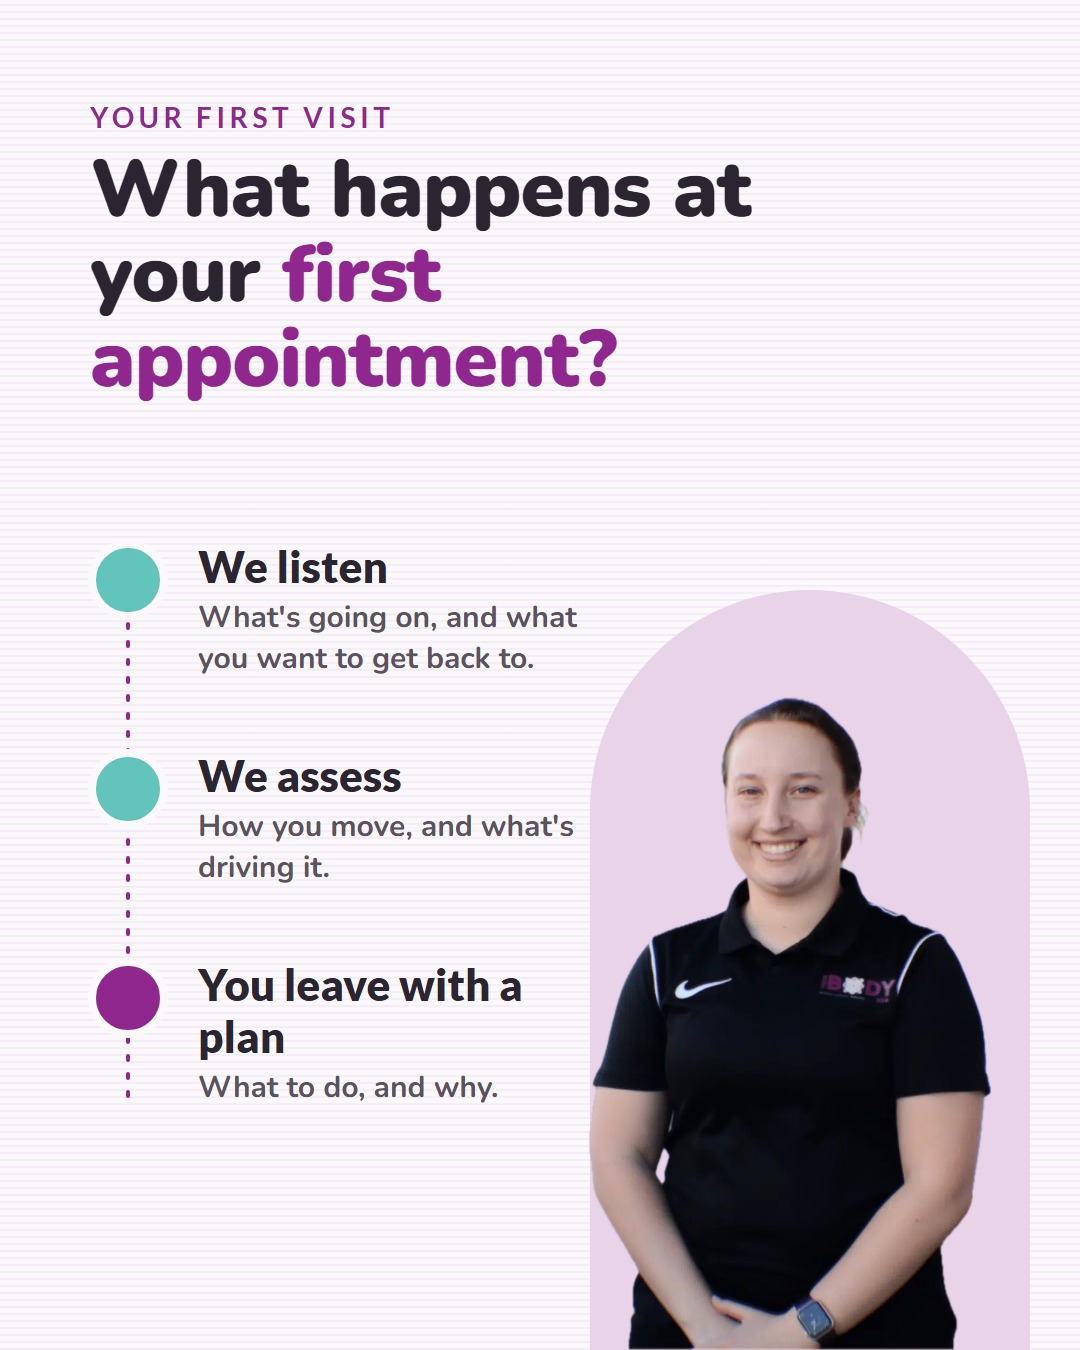
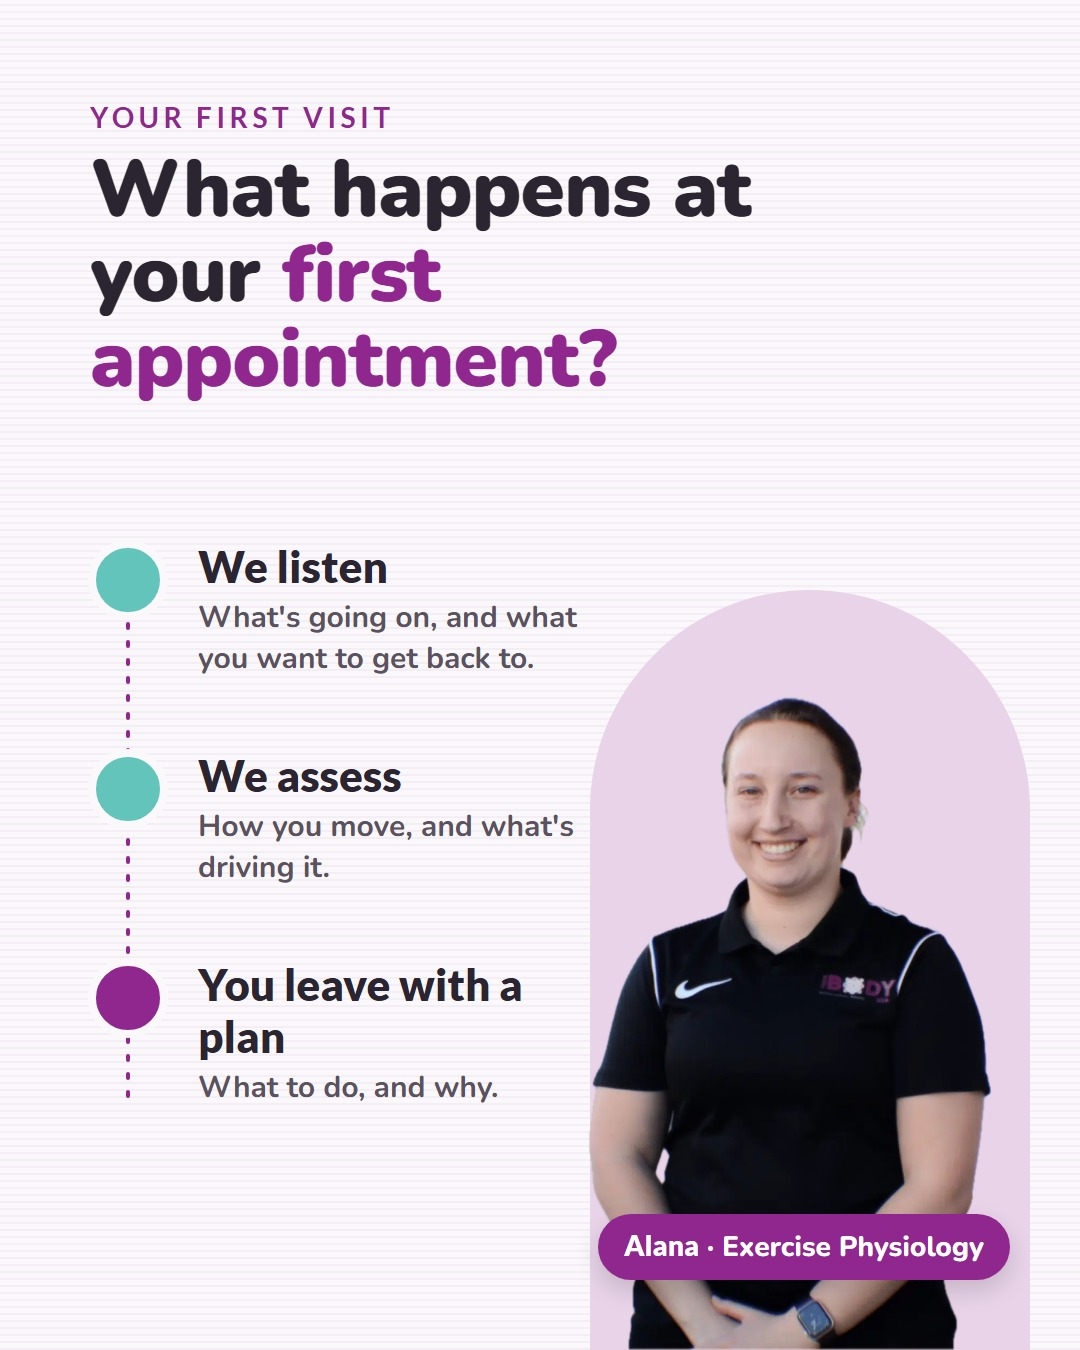
Update: Warragul Social posts tab. Team post now first (Mon 2) with matched team photos, falls post Wed 4, names on Shannon's and Alana's posts, fuller summer sport post. Marked WG-SOCIAL

Changed region(s): [[0.55, 0.9022, 0.9472, 0.9644]]

diff --git a/index.html b/index.html
@@ -1112,20 +1112,12 @@ body.embed #gate .gate-embed{font-size:15px;line-height:1.5;color:var(--slate)}
    <tr><td><b>Goal</b></td><td>Let Warragul know a new allied health clinic has opened inside Universal Athlete Centre, and turn that into first bookings.</td></tr>
    <tr><td><b>Content pillars</b></td><td><div class="sp-pills"><span class="sp-pill sp-Help">Help</span> Monday: a useful tip that solves a real problem.</div><div class="sp-pills" style="margin-top:6px"><span class="sp-pill sp-Local">Local</span> Wednesday: Warragul, Universal Athlete Centre and the team.</div><div class="sp-pills" style="margin-top:6px"><span class="sp-pill sp-Act">Act</span> Friday: a practical reason to book now.</div></td></tr>
    <tr><td><b>Timely hooks</b></td><td>Movember, summer sport, health fund extras before 31 December, and the silly season.</td></tr>
-   <tr><td><b>Your team</b></td><td>Natasha (Physiotherapy), James and Alana (Exercise Physiology), Shannon (Dietetics) and Christine (Myotherapy and Remedial Massage). Each has their own post, and all five appear together on Wed 4.</td></tr>
+   <tr><td><b>Your team</b></td><td>Natasha (Physiotherapy), James and Alana (Exercise Physiology), Shannon (Dietetics) and Christine (Myotherapy and Remedial Massage). Each has their own post, and all five appear together on Mon 2.</td></tr>
    <tr><td><b>Services</b></td><td>Every service has its own post and at least one story: Physiotherapy, Exercise Physiology, Myotherapy, Remedial Massage and Dietetics.</td></tr>
    <tr><td><b>From December</b></td><td>Once the clinic is introduced, we'd like to move to one service per week on rotation. We'll confirm the approach with you before December.</td></tr>
   </tbody></table></div></div>
   <h2 style="font-family:var(--head);font-weight:900;color:var(--purple);font-size:26px;margin:30px 0 12px">Posts</h2>
-  <div class="sp-grid"><div class="sp-card"><img src="assets/warragul-social/2026-11/YBH-Warragul-Nov-02-falls-arent-part-of-getting-older.jpg" alt="" loading="lazy"><div class="sp-meta"><span class="sp-date">Mon 2 Nov</span><span class="sp-tags"><span class="sp-svc">Exercise Physiology</span><span class="sp-pill sp-Help">Help</span></span></div><div class="sp-cap">"I just had a bit of a stumble." It's one of the most common things we hear, and it's almost always followed by "but I'm fine."
-
-Falls do become more common as we get older, but common isn't the same as normal. Strength, balance and confidence can all be trained, at any age.
-
-If you or someone in your family has had a stumble lately, James and Alana, our Exercise Physiologists, can assess what's behind it and build a program around you.
-
-Book Exercise Physiology at Your Body Hub Warragul via the link in our bio.
-
-#Warragul #ExercisePhysiology #FallsPrevention #YourBodyHub</div><div class="sp-note">This date has passed, so it goes up this week.</div></div><div class="sp-card"><img src="assets/warragul-social/2026-11/YBH-Warragul-Nov-04-who-should-i-see.jpg" alt="" loading="lazy"><div class="sp-meta"><span class="sp-date">Wed 4 Nov</span><span class="sp-tags"><span class="sp-svc">All five</span><span class="sp-pill sp-Local">Local</span></span></div><div class="sp-cap">Not sure who to book with? Here's a quick guide to the Your Body Hub Warragul team 👇
+  <div class="sp-grid"><div class="sp-card"><img src="assets/warragul-social/2026-11/YBH-Warragul-Nov-02-who-should-i-see.jpg" alt="" loading="lazy"><div class="sp-meta"><span class="sp-date">Mon 2 Nov</span><span class="sp-tags"><span class="sp-svc">All five</span><span class="sp-pill sp-Local">Local</span></span></div><div class="sp-cap">Not sure who to book with? Here's a quick guide to the Your Body Hub Warragul team 👇
 
 🦴 Natasha, Physiotherapy: pain, injury and getting moving again
 💪 James and Alana, Exercise Physiology: exercise for health conditions, injury recovery and staying strong as you age
@@ -1134,7 +1126,15 @@ Book Exercise Physiology at Your Body Hub Warragul via the link in our bio.
 
 Still not sure? Call us on (03) 8578 6544 and we'll point you in the right direction. Find us inside Universal Athlete Centre, 7 Neilson Court.
 
-#Warragul #YourBodyHub #AlliedHealth</div><div class="sp-note">This date has passed, so it goes up this week.</div></div><div class="sp-card"><img src="assets/warragul-social/2026-11/YBH-Warragul-Nov-06-do-i-need-a-referral.jpg" alt="" loading="lazy"><div class="sp-meta"><span class="sp-date">Fri 6 Nov</span><span class="sp-tags"><span class="sp-svc">All services</span><span class="sp-pill sp-Act">Act</span></span></div><div class="sp-cap">Do you need a referral to see us? No. You can book straight in with any of our practitioners.
+#Warragul #YourBodyHub #AlliedHealth</div><div class="sp-note">This date has passed, so it goes up this week.</div></div><div class="sp-card"><img src="assets/warragul-social/2026-11/YBH-Warragul-Nov-04-falls-arent-part-of-getting-older.jpg" alt="" loading="lazy"><div class="sp-meta"><span class="sp-date">Wed 4 Nov</span><span class="sp-tags"><span class="sp-svc">Exercise Physiology</span><span class="sp-pill sp-Help">Help</span></span></div><div class="sp-cap">"I just had a bit of a stumble." It's one of the most common things we hear, and it's almost always followed by "but I'm fine."
+
+Falls do become more common as we get older, but common isn't the same as normal. Strength, balance and confidence can all be trained, at any age.
+
+If you or someone in your family has had a stumble lately, James and Alana, our Exercise Physiologists, can assess what's behind it and build a program around you.
+
+Book Exercise Physiology at Your Body Hub Warragul via the link in our bio.
+
+#Warragul #ExercisePhysiology #FallsPrevention #YourBodyHub</div><div class="sp-note">This date has passed, so it goes up this week.</div></div><div class="sp-card"><img src="assets/warragul-social/2026-11/YBH-Warragul-Nov-06-do-i-need-a-referral.jpg" alt="" loading="lazy"><div class="sp-meta"><span class="sp-date">Fri 6 Nov</span><span class="sp-tags"><span class="sp-svc">All services</span><span class="sp-pill sp-Act">Act</span></span></div><div class="sp-cap">Do you need a referral to see us? No. You can book straight in with any of our practitioners.
 
 If your GP has given you a care plan, bring it along to your first appointment. We also accept WorkSafe, TAC, DVA, NDIS and Medicare referrals.
 
